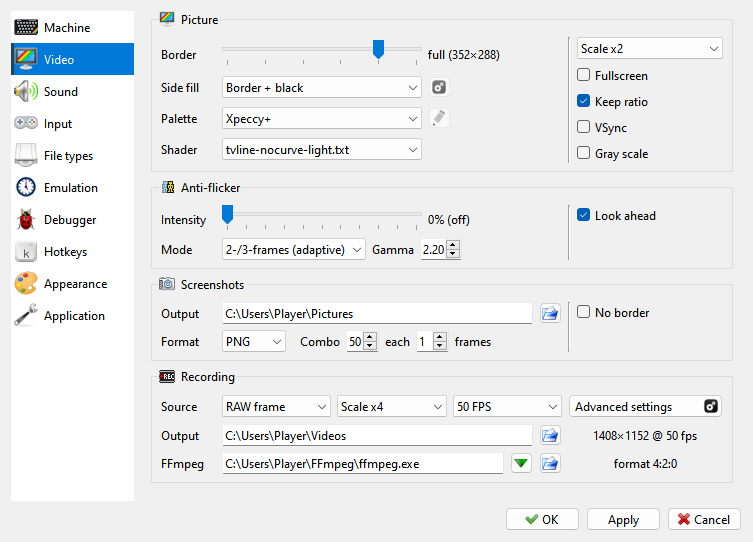
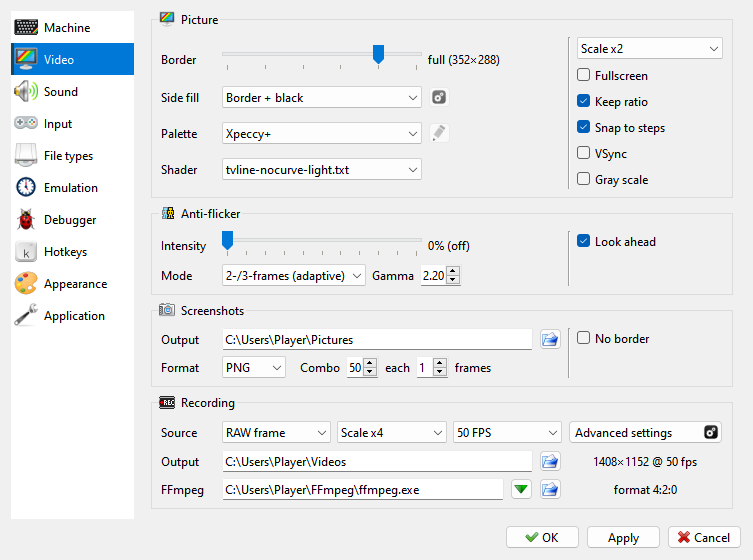
manual: Snap to Steps

diff --git a/docs/manual/view.md b/docs/manual/view.md
@@ -32,6 +32,37 @@ size picked in **View > Size** brings back the scale's size with its whole
 pixels; a maximized window restored gets the size it had before. On macOS the green
 button is fullscreen; Option-click on it maximizes the window.
 
+```{index} Snap to Steps
+```
+
+**View > Size > Snap to Steps**, ticked by default, helps a resized window stay sharp:
+drag its edge or corner, and the window follows the mouse, but clings to a *step* when
+the mouse comes within 24 pixels of one - a size where the picture fills the window with
+whole pixels and no bars. Out of that reach the window takes any size again. The size the
+drag began with does not hold the window: it clings there only once the mouse has left it
+and come back. Two items below it choose how:
+
+- **Snap: Keep Shape**, the default - the window keeps the picture's shape while it is
+  dragged: the width follows the mouse and the height goes with it, or the other way
+  round when the top or the bottom edge is dragged. Width and height come to a step
+  together.
+- **Snap: Each Side** - the window takes any shape, and its width and its height each
+  cling to a step's on their own. With one of them on a step, the picture has whole
+  pixels when that side is the one it fills.
+
+Within a scale the border grows first, a machine pixel on each side at a time, from the
+size the **Border** setting chooses up to **full**; past that the next scale starts, from
+the chosen border again. With **Black**, **Stretched Edges** or **Mirror** in **View >
+Side Fill** (the border as chosen) the steps are the scales' own sizes. A window let go
+on a step has the scale in **View > Size** follow it; the **Border** setting stays as it
+is.
+
+A window near a step also clings to it when the border or the bars change under it. A
+maximized window, one snapped to half of the screen, fullscreen, and **Keep Aspect
+Ratio** unticked are left as they are. On Linux and macOS the window follows the mouse
+freely, whichever of the two is chosen, and clings to a step within reach a moment after
+it stops changing size.
+
 The window's size is remembered: if the program is closed maximized, it starts maximized
 next time, on the same screen; closed at a size of its own, it starts at that size.
 

diff --git a/docs/manual/options-video.md b/docs/manual/options-video.md
@@ -9,9 +9,10 @@ The page has four groups:
 
 - **Picture** - **Border**, **Side fill**, **Palette** with the {icon}`edit` button for
   the **Palette Editor**, **Shader**, and on the right the window scale
-  (**Scale x1** to **Scale x6**), **Fullscreen**, **Keep ratio**, **VSync** and **Gray scale**.
-  The scale, **Fullscreen**, **Keep ratio**, **Side fill**, the palette and the shader are
-  the same settings as in the **View** menu; see [View menu](view.md). For **VSync** see
+  (**Scale x1** to **Scale x6**), **Fullscreen**, **Keep ratio**, **Snap to steps**, **VSync**
+  and **Gray scale**. The scale, **Fullscreen**, **Keep ratio**, **Snap to steps**, **Side
+  fill**, the palette and the shader are the same settings as in the **View** menu; see
+  [View menu](view.md) and [Snap to Steps](view.md#size). For **VSync** see
   [VSync](#vsync).
 - **Anti-flicker** - see [Anti-flicker](#anti-flicker).
 - **Screenshots** - see [Screenshots](#screenshots).
